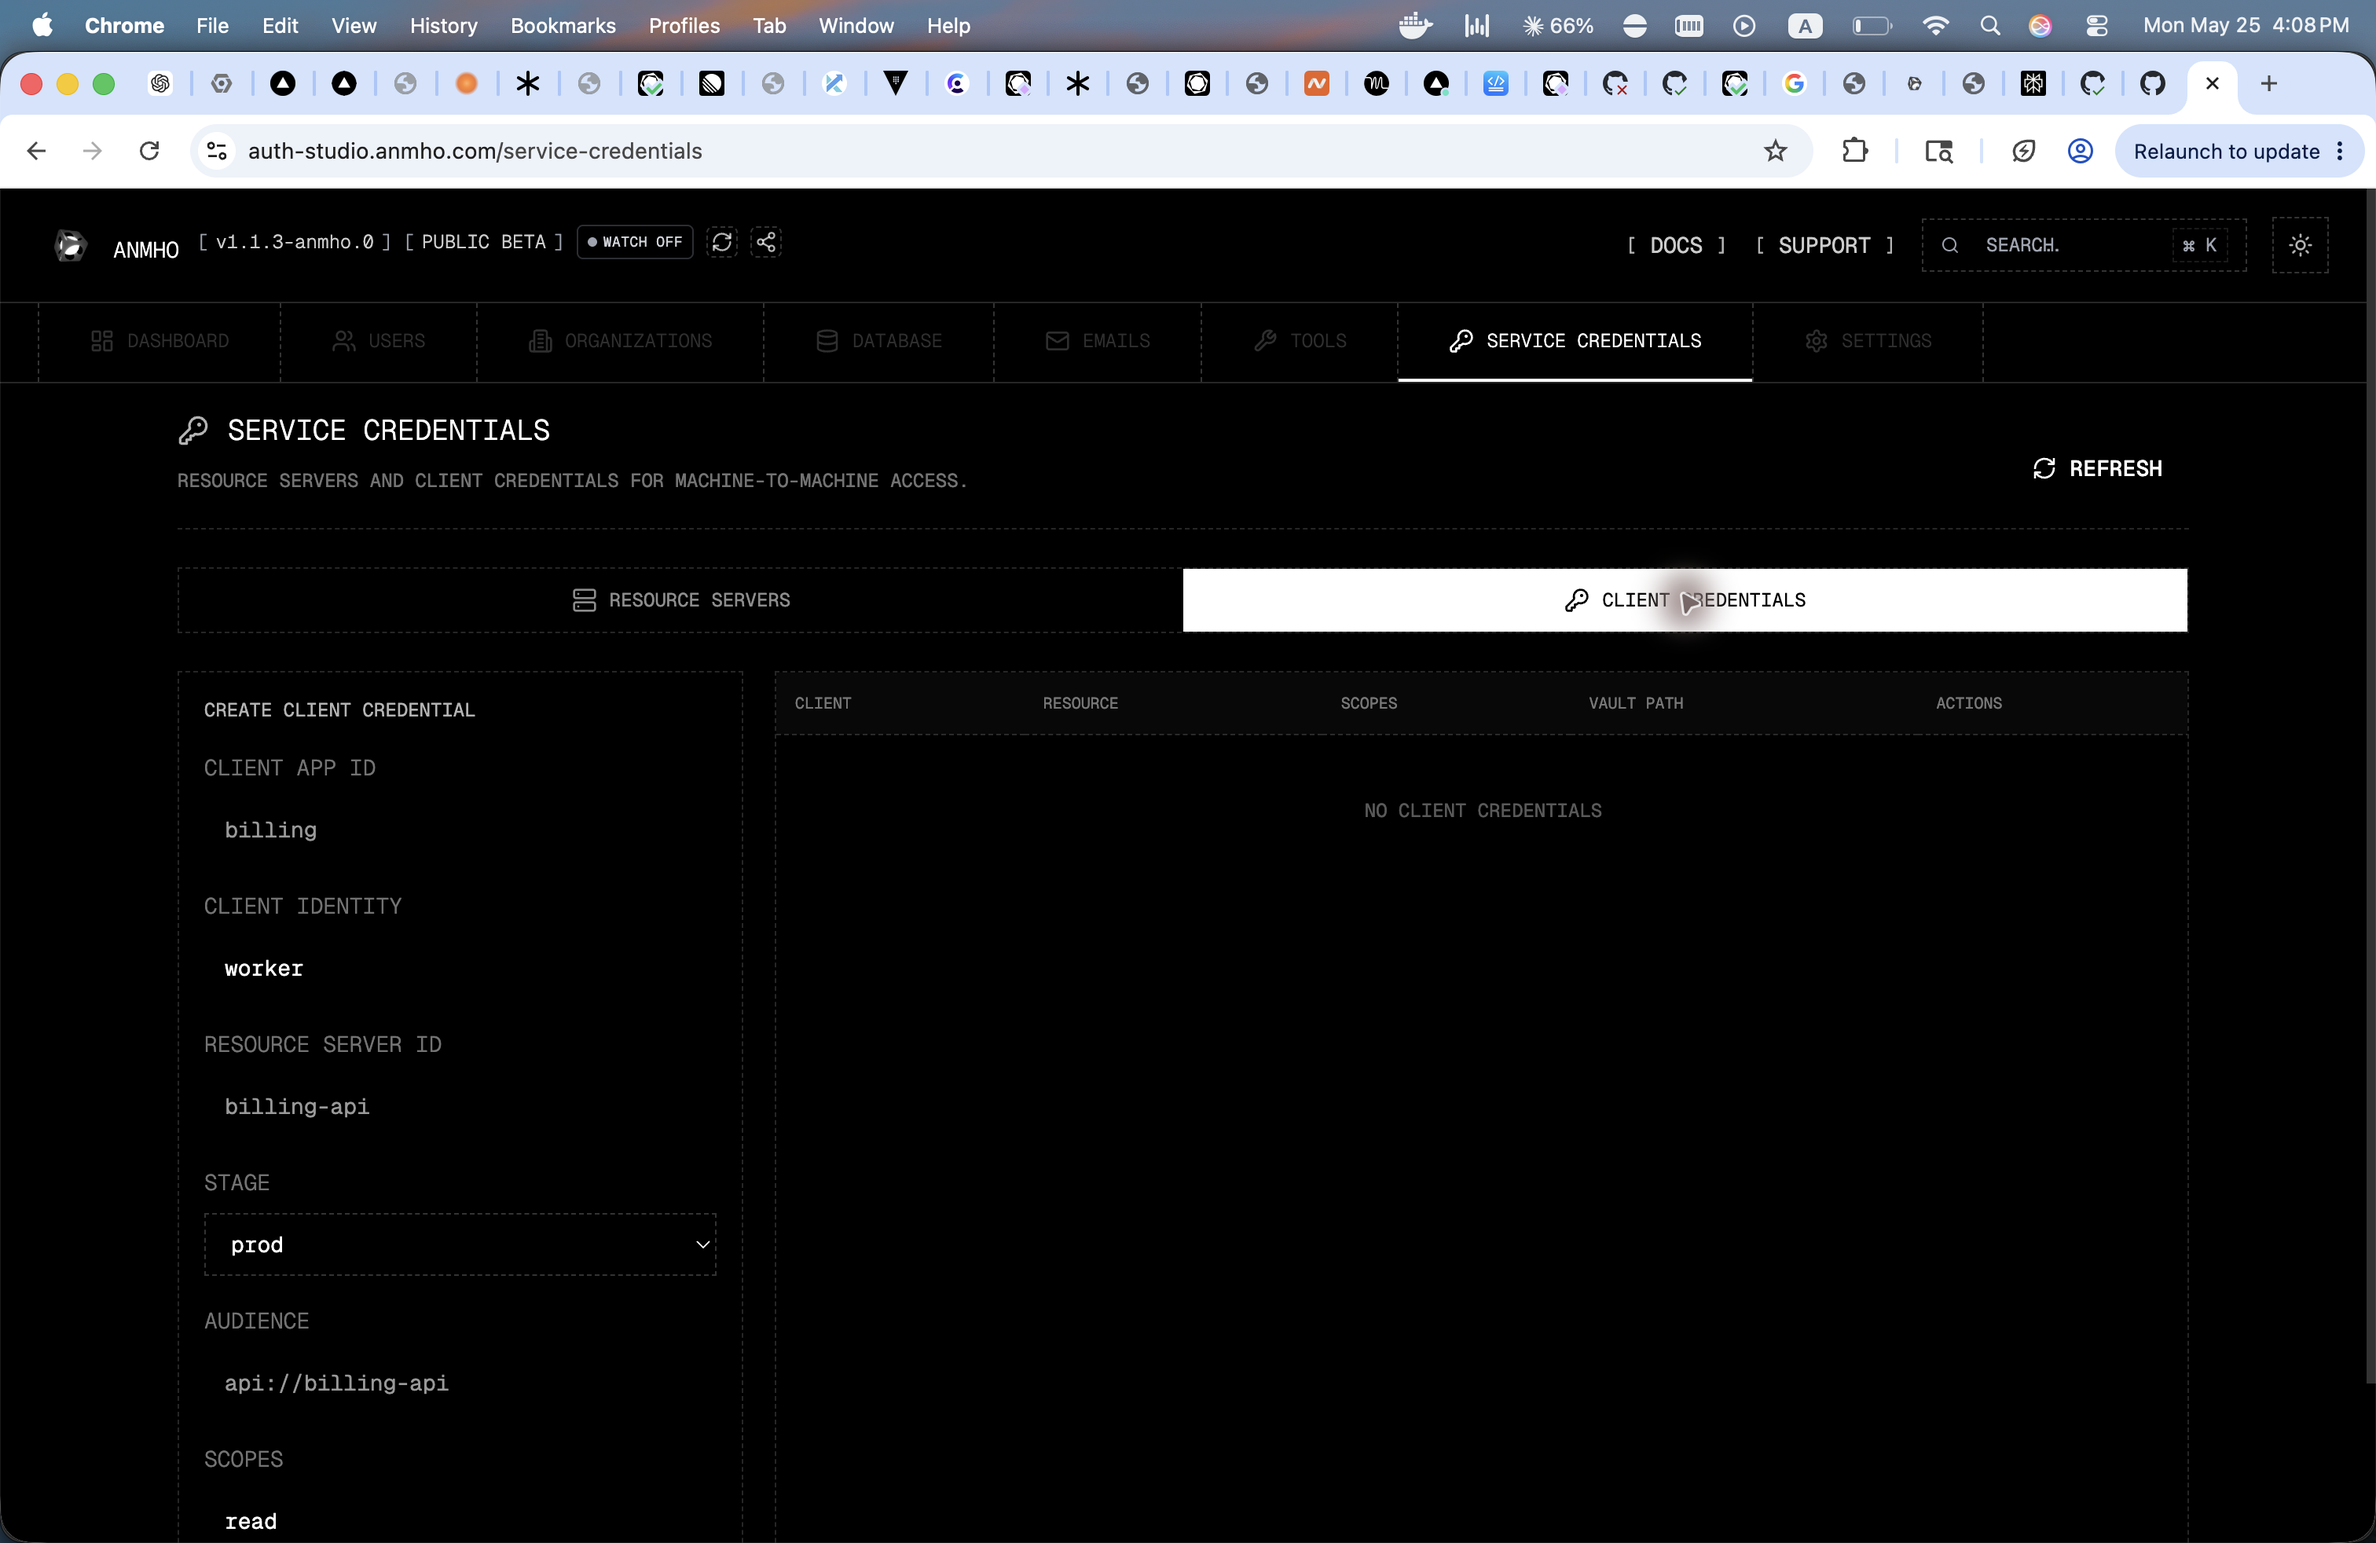
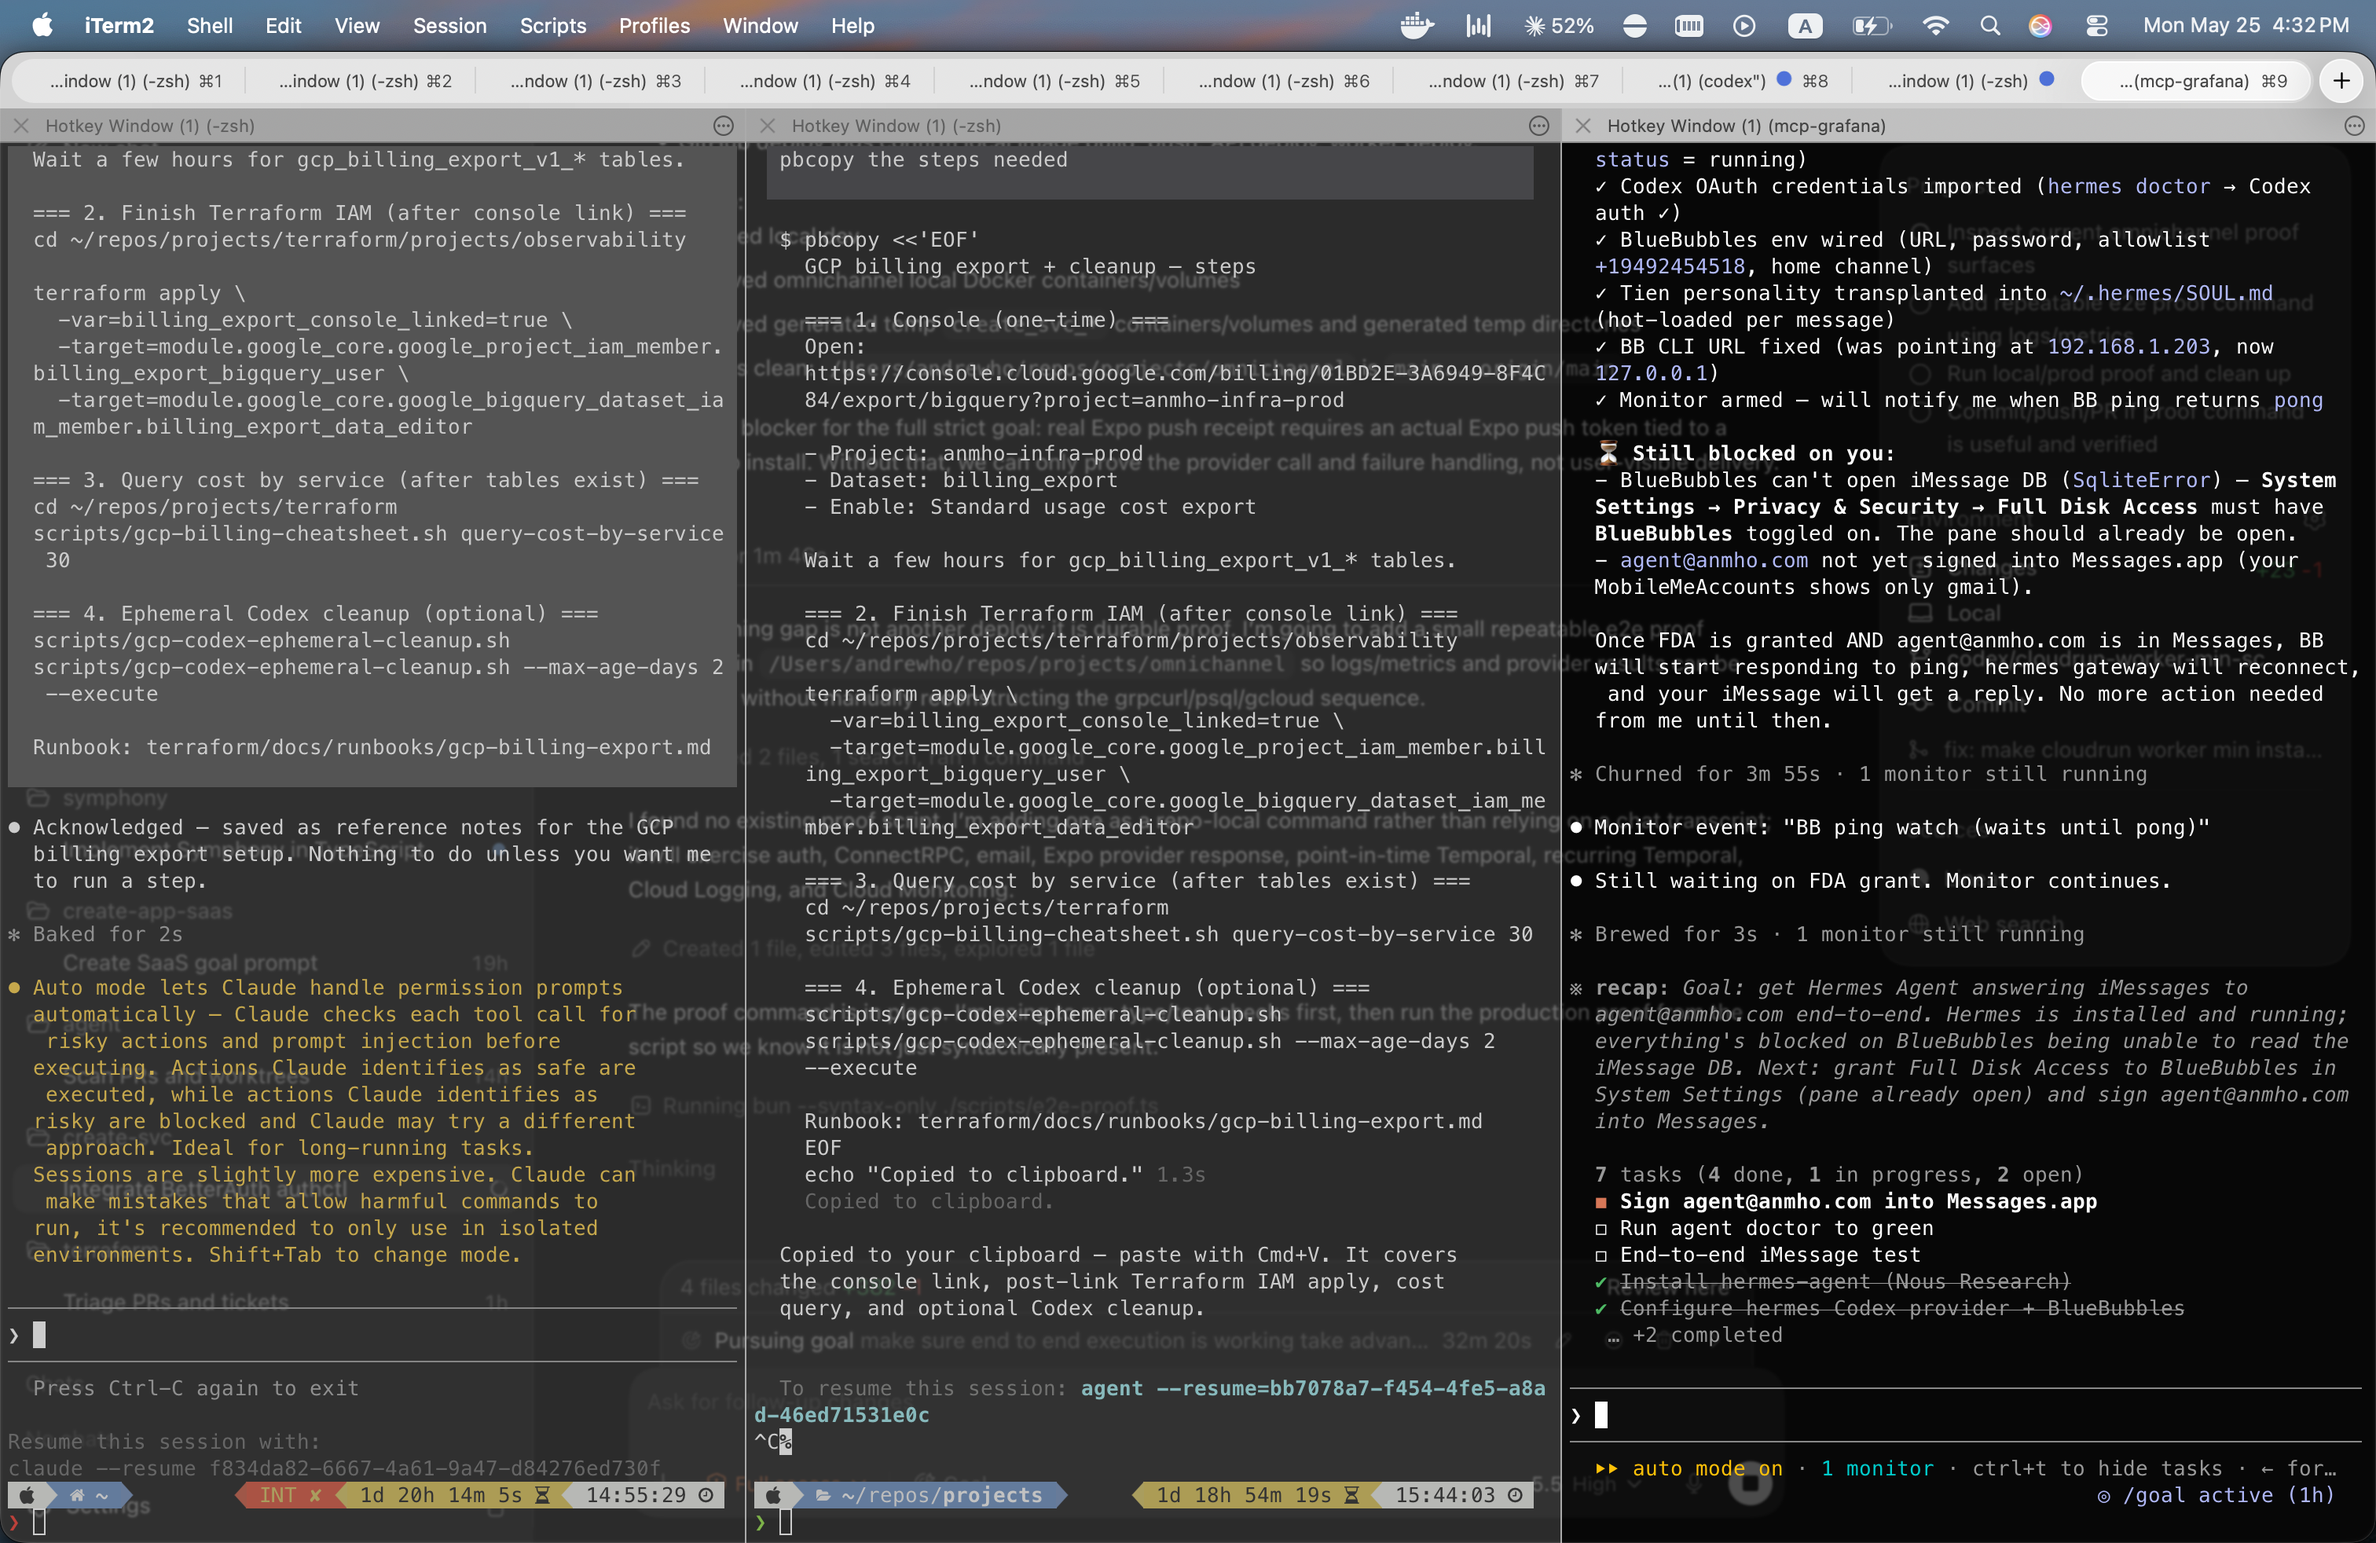
fix: route service credentials proxy on vercel

diff --git a/src/vercel/service-credentials-proxy.ts b/src/vercel/service-credentials-proxy.ts
@@ -30,7 +30,7 @@ export async function handleServiceCredentialsProxy(req: VercelRequest, res: Ver
     return;
   }
 
-  const targetUrl = new URL(getInternalPath(req.url || "/api/service-credentials"), baseUrl);
+  const targetUrl = buildTargetUrl(baseUrl, getInternalPath(req.url || "/api/service-credentials"));
   const method = req.method || "GET";
   const headers: Record<string, string> = {
     Accept: jsonContentType,
@@ -61,11 +61,24 @@ function getHeader(req: VercelRequest, name: string): string | undefined {
   return Array.isArray(value) ? value[0] : value;
 }
 
-function getInternalPath(url: string): string {
+export function getInternalPath(url: string): string {
   const parsed = new URL(url, "https://auth-studio.local");
   const prefix = "/api/service-credentials";
-  const path = parsed.pathname.startsWith(prefix) ? parsed.pathname.slice(prefix.length) || "/" : "/";
+  const routedPath = parsed.searchParams.get("service_credentials_path");
+  parsed.searchParams.delete("service_credentials_path");
+  const path =
+    routedPath !== null
+      ? `/${routedPath}`.replace(/\/+/g, "/")
+      : parsed.pathname.startsWith(prefix)
+        ? parsed.pathname.slice(prefix.length) || "/"
+        : "/";
   return `${path}${parsed.search}`;
+}
+
+export function buildTargetUrl(baseUrl: string, internalPath: string): URL {
+  const base = baseUrl.endsWith("/") ? baseUrl : `${baseUrl}/`;
+  const path = internalPath.replace(/^\/+/, "");
+  return new URL(path, base);
 }
 
 function serializeBody(

diff --git a/tests/service-credentials.test.ts b/tests/service-credentials.test.ts
@@ -1,5 +1,6 @@
 import { describe, expect, it, vi } from "vitest";
 import { handleStudioApiRequest } from "../src/routes";
+import { buildTargetUrl, getInternalPath } from "../src/vercel/service-credentials-proxy";
 
 describe("service credentials routes", () => {
   it("proxies service credential requests through the configured handler", async () => {
@@ -64,5 +65,29 @@ describe("service credentials routes", () => {
 
     expect(response.status).toBe(404);
     expect(response.data.error).toBe("service_credentials_not_enabled");
+  });
+
+  it("reconstructs Vercel routed service credential paths", () => {
+    expect(
+      getInternalPath(
+        "/api/service-credentials?service_credentials_path=resource-servers&include_disabled=true",
+      ),
+    ).toBe("/resource-servers?include_disabled=true");
+    expect(
+      getInternalPath(
+        "/api/service-credentials?service_credentials_path=oauth2/clients/client-id/rotate",
+      ),
+    ).toBe("/oauth2/clients/client-id/rotate");
+  });
+
+  it("preserves the internal base path when building authctl target URLs", () => {
+    expect(
+      String(
+        buildTargetUrl(
+          "https://auth.anmho.com/internal",
+          "/resource-servers?include_disabled=true",
+        ),
+      ),
+    ).toBe("https://auth.anmho.com/internal/resource-servers?include_disabled=true");
   });
 });

diff --git a/api/service-credentials/oauth2/clients/[clientId]/revoke.ts b/api/service-credentials/oauth2/clients/[clientId]/revoke.ts
@@ -1,0 +1,3 @@
+import { handleServiceCredentialsProxy } from "../../../../../src/vercel/service-credentials-proxy.js";
+
+export default handleServiceCredentialsProxy;

diff --git a/api/service-credentials/oauth2/clients/[clientId]/rotate.ts b/api/service-credentials/oauth2/clients/[clientId]/rotate.ts
@@ -1,0 +1,3 @@
+import { handleServiceCredentialsProxy } from "../../../../../src/vercel/service-credentials-proxy.js";
+
+export default handleServiceCredentialsProxy;

diff --git a/api/service-credentials/resource-servers/[resourceServerId]/[stage].ts b/api/service-credentials/resource-servers/[resourceServerId]/[stage].ts
@@ -1,0 +1,3 @@
+import { handleServiceCredentialsProxy } from "../../../../src/vercel/service-credentials-proxy.js";
+
+export default handleServiceCredentialsProxy;

diff --git a/api/service-credentials/oauth2/clients.ts b/api/service-credentials/oauth2/clients.ts
@@ -1,0 +1,3 @@
+import { handleServiceCredentialsProxy } from "../../../src/vercel/service-credentials-proxy.js";
+
+export default handleServiceCredentialsProxy;

diff --git a/api/service-credentials/resource-servers.ts b/api/service-credentials/resource-servers.ts
@@ -1,0 +1,3 @@
+import { handleServiceCredentialsProxy } from "../../src/vercel/service-credentials-proxy.js";
+
+export default handleServiceCredentialsProxy;
